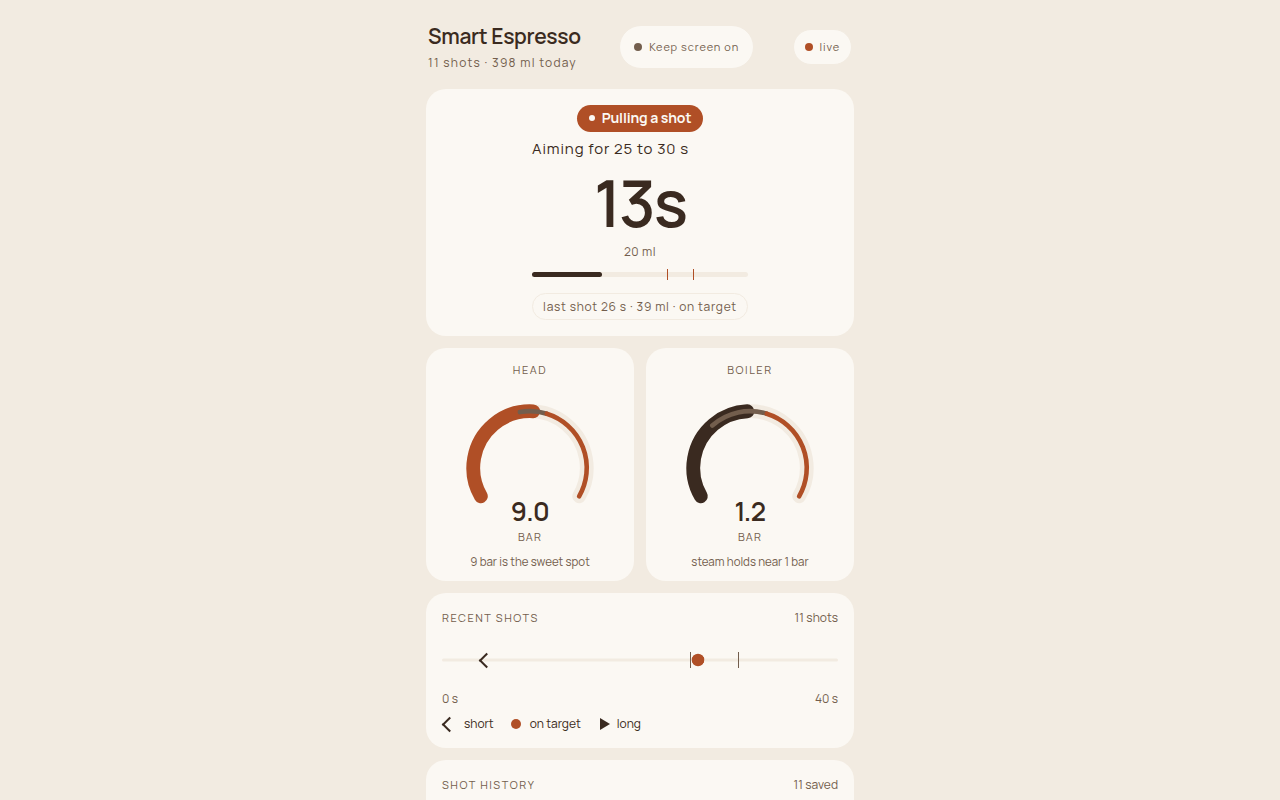
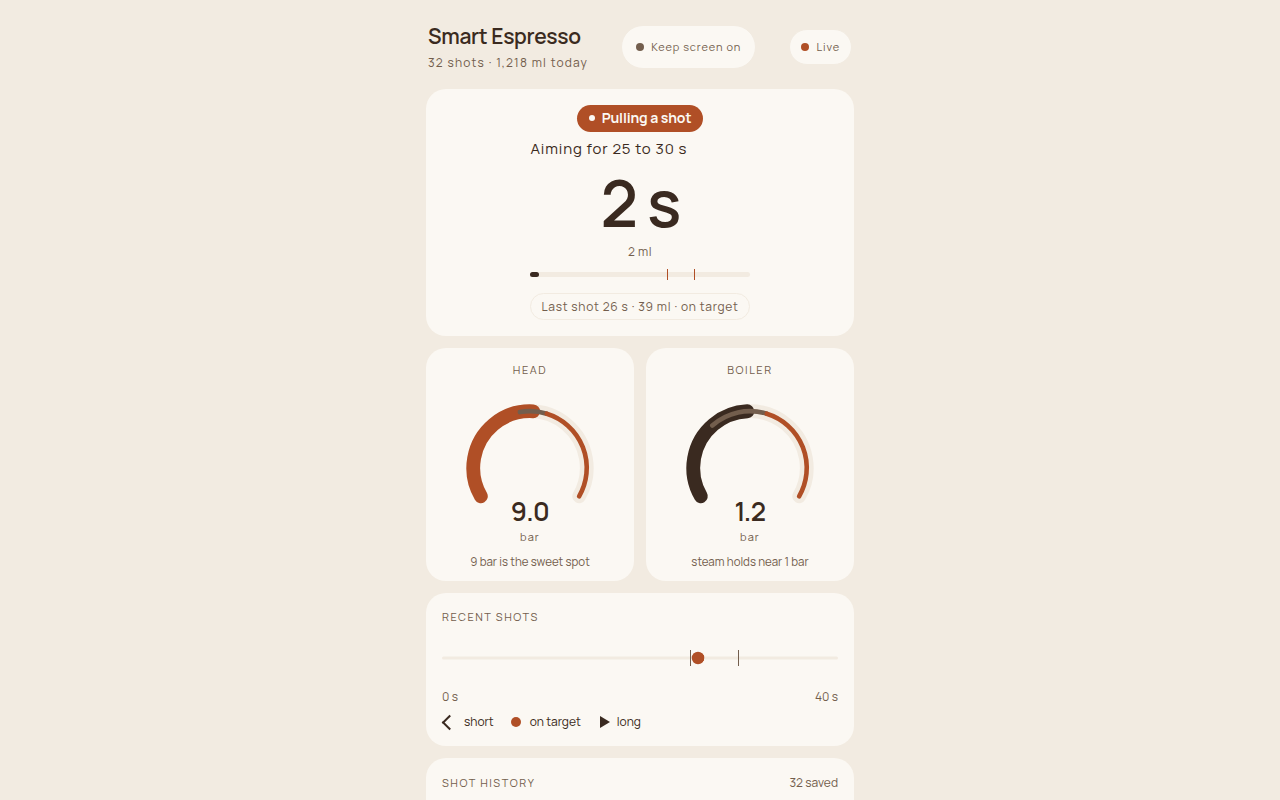
fix: space units and use sentence case on the dashboard
The shot timer reads 12 s, pressure says bar, the connection pill is
Live, and the last-shot chip is sentence case. Recent shots no longer
repeats the count that Shot history already shows.

diff --git a/smart_espresso/web/static/index.html b/smart_espresso/web/static/index.html
@@ -962,7 +962,7 @@
 <div class="brewbar" id="brewbar" aria-hidden="true">
   <span class="lamp" id="bb-lamp"></span>
   <span class="bb-label" id="bb-label">Pulling a shot</span>
-  <b class="bb-time" id="bb-time">0s</b>
+  <b class="bb-time" id="bb-time">0 s</b>
   <span class="stale-tag" id="bb-stale" hidden>Last seen</span>
   <span class="bb-ml" id="bb-ml">0 ml</span>
 </div>
@@ -1003,7 +1003,7 @@
         <span class="warm-eta" id="warm-eta"></span>
       </div>
       <div class="shot" id="shot" hidden>
-        <b id="shot-seconds">0s</b>
+        <b id="shot-seconds">0 s</b>
         <span class="stale-tag" id="shot-stale" hidden>Last seen</span>
         <small id="shot-ml">0 ml</small>
         <div class="shot-track"><u id="shot-window"></u><i id="shot-progress"></i></div>
@@ -1273,7 +1273,7 @@ function renderState(machine, pressure) {
     // Fresh payload: take the machine's number. displayedShotText refuses
     // to advance a held reading while offline, which is what keeps the
     // timer from counting up if a late render lands after the lamp flips.
-    const incomingShot = `${machine.shot.seconds.toFixed(0)}s`;
+    const incomingShot = `${machine.shot.seconds.toFixed(0)} s`;
     const shownShot = DashboardLogic.displayedShotText(true, heldShotText, incomingShot);
     heldShotText = shownShot;
     shotSeconds.textContent = shownShot;
@@ -1308,7 +1308,7 @@ function renderState(machine, pressure) {
   if (last) {
     const lastVerdict = verdictOf(last.seconds);
     chip.textContent =
-      `last shot ${last.seconds.toFixed(0)} s · ${last.ml.toFixed(0)} ml · ${lastVerdict.label}`;
+      `Last shot ${last.seconds.toFixed(0)} s · ${last.ml.toFixed(0)} ml · ${lastVerdict.label}`;
   }
 
   const boilerBar = DashboardLogic.boilerReading(pressure);
@@ -1435,7 +1435,7 @@ function buildRings(pressure) {
               style="transition:stroke-dashoffset .3s ease"/>
         ${band}
       </svg>
-      <div class="ring-read"><b>0.0</b><span>BAR</span></div>
+      <div class="ring-read"><b>0.0</b><span>bar</span></div>
       <div class="ring-foot">${guide.caption || `up to ${max} bar`}</div>
     </div>`;
   }).join('');
@@ -1542,13 +1542,12 @@ function renderPulls(history) {
     });
   }
 
-  // The note doubles as the inspector: tapping a tick swaps "6 pulls" for
-  // that pull's numbers; tapping it again hands the slot back.
+  // The note is only the open tick. The count stays on Shot history.
   const note = document.getElementById('pulls-note');
   const sel = pullHistory[selectedPull];
   note.textContent = sel
     ? `${sel.seconds.toFixed(0)} s · ${sel.ml.toFixed(0)} ml · ${verdictOf(sel.seconds).label}`
-    : `${history.length} shot${history.length === 1 ? '' : 's'}`;
+    : '';
 }
 
 function selectPull(index, toggle) {
@@ -1882,9 +1881,9 @@ function renderFlow(sensor) {
 
 function formatDuration(seconds) {
   const h = Math.floor(seconds / 3600), m = Math.floor(seconds / 60) % 60;
-  if (h) return `${h}h ${m}m`;
-  if (m) return `${m}m`;
-  return `${Math.floor(seconds)}s`;
+  if (h) return `${h} h ${m} m`;
+  if (m) return `${m} m`;
+  return `${Math.floor(seconds)} s`;
 }
 
 // Volumes read in the unit that keeps the digits short: a lifetime of
@@ -1963,7 +1962,7 @@ function syncTankControl() {
 // does not wait for the next footer tick to appear.
 function paintOfflineChrome() {
   const text = DashboardLogic.pillText(connected, lastSeenAt);
-  document.getElementById('dot').classList.toggle('off', text !== 'live');
+  document.getElementById('dot').classList.toggle('off', text !== 'Live');
   document.getElementById('conn').textContent = text;
   if (!connected) {
     document.getElementById('footer').textContent = DashboardLogic.footerText(

diff --git a/smart_espresso/web/static/dashboard_logic.js b/smart_espresso/web/static/dashboard_logic.js
@@ -13,7 +13,7 @@
   // The pill may say "live" only after a status payload has been applied.
   // Before that, "offline" would pretend a reading once existed.
   function pillText(connected, lastSeenAt) {
-    if (connected) return "live";
+    if (connected) return "Live";
     if (lastSeenAt == null) return "connecting…";
     return "offline";
   }

diff --git a/smart_espresso/web/static/sw.js b/smart_espresso/web/static/sw.js
@@ -2,7 +2,7 @@
 // still opens (slightly stale, clearly marked so by the page itself) when
 // the machine's server hiccups. Sensor data is never cached: /api/* always
 // goes to the network.
-const CACHE = 'espresso-shell-v11';
+const CACHE = 'espresso-shell-v12';
 const SHELL = [
   '/',
   '/dashboard_logic.js',

diff --git a/smart_espresso/test/test_dashboard_logic.py b/smart_espresso/test/test_dashboard_logic.py
@@ -27,10 +27,10 @@ def call(expression):
 class TestConnectionCopy:
     def test_pill_stays_connecting_until_a_reading_exists(self):
         assert call("logic.pillText(false, null)") == "connecting…"
-        assert call("logic.pillText(false, null)") != "live"
+        assert call("logic.pillText(false, null)") != "Live"
 
     def test_pill_is_live_only_while_connected(self):
-        assert call("logic.pillText(true, 1000)") == "live"
+        assert call("logic.pillText(true, 1000)") == "Live"
 
     def test_pill_is_offline_after_a_reading_was_lost(self):
         assert call("logic.pillText(false, 1000)") == "offline"
@@ -110,9 +110,9 @@ class TestOfflineRules:
         )
 
     def test_shot_timer_does_not_advance_while_offline(self):
-        assert call("logic.displayedShotText(false, '12s', '13s')") == "12s"
-        assert call("logic.displayedShotText(true, '12s', '13s')") == "13s"
-        assert call("logic.displayedShotText(false, null, '4s')") == "4s"
+        assert call("logic.displayedShotText(false, '12 s', '13 s')") == "12 s"
+        assert call("logic.displayedShotText(true, '12 s', '13 s')") == "13 s"
+        assert call("logic.displayedShotText(false, null, '4 s')") == "4 s"
 
     def test_skeletons_only_before_the_first_payload(self):
         assert call("logic.showSkeletons(false)") is True
@@ -346,3 +346,28 @@ class TestLastShotChip:
         assert "margin-top: 16px" in chip
         assert "margin-top: 12px" in _css_rule(self.page, ".warm")
         assert "margin-top: 12px" in _css_rule(self.page, ".shot")
+
+
+class TestWording:
+    def setup_method(self):
+        self.page = (
+            Path(__file__).resolve().parents[1] / "web" / "static" / "index.html"
+        ).read_text(encoding="utf-8")
+
+    def test_units_are_spaced_and_pressure_says_bar(self):
+        assert 'id="shot-seconds">0 s<' in self.page
+        assert 'id="bb-time">0 s<' in self.page
+        assert "${machine.shot.seconds.toFixed(0)} s" in self.page
+        assert "${Math.floor(seconds)} s" in self.page
+        assert ">BAR<" not in self.page
+        assert "<span>bar</span>" in self.page
+
+    def test_live_pill_and_last_shot_chip_are_sentence_case(self):
+        assert "Last shot ${last.seconds.toFixed(0)} s" in self.page
+        assert "last shot ${" not in self.page
+        assert call("logic.pillText(true, 1000)") == "Live"
+
+    def test_only_shot_history_shows_a_count(self):
+        assert "history.length} shot" not in self.page
+        assert "`${count} saved`" in self.page
+        assert "'1 saved'" in self.page

diff --git a/smart_espresso/test/test_dashboard_contrast.py b/smart_espresso/test/test_dashboard_contrast.py
@@ -152,7 +152,7 @@ class TestDashboardContrast:
         assert "fonts.googleapis.com" not in self.worker
         assert "fonts.gstatic.com" not in self.worker
         assert "/fonts/manrope.woff2" in self.worker
-        assert "espresso-shell-v11" in self.worker
+        assert "espresso-shell-v12" in self.worker
         font = PAGE.parent / "fonts" / "manrope.woff2"
         assert font.is_file()
         assert font.read_bytes()[:4] == b"wOF2"
